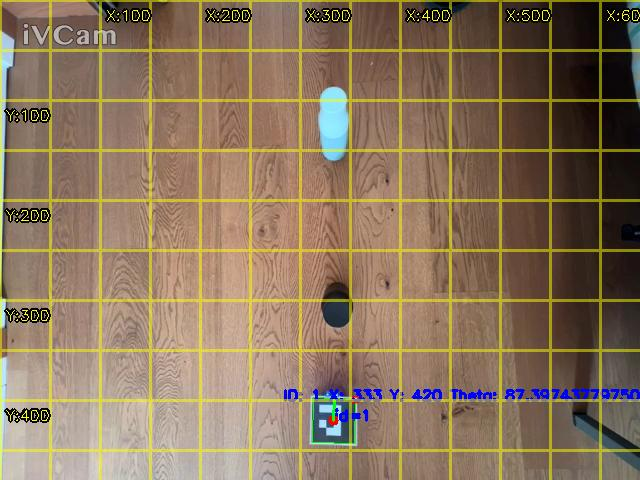
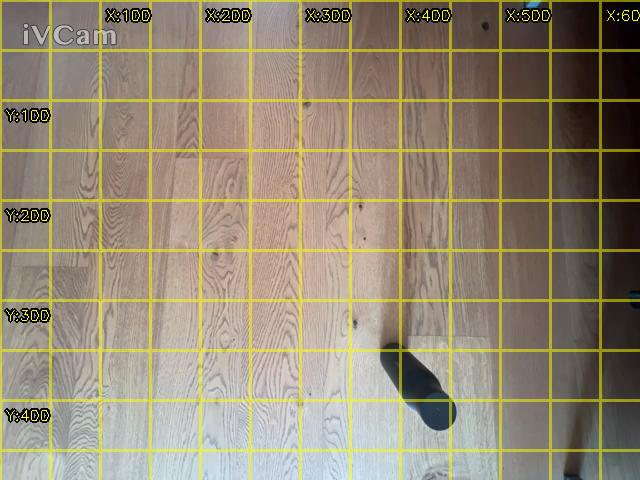
ajustes

diff --git a/servidor/server_gui.py b/servidor/server_gui.py
@@ -497,7 +497,7 @@ class ServerGUI:
         self.hilo_alineacion.start()
         self.escribir_log("Modo Baile por Waypoints (Máquina de estados) INICIADO.")
 
-    def _bucle_baile_waypoints(self, fuente, mapa_tokens, rutas): #ESTA FUNCION NO LA PODEMOS REFACTORIZAR USANDO EL MENSAJE QUE ENVIA EL ROBOT AL SERVIDOR CUANDO LLEGA A UN OBJETO?
+    def _bucle_baile_waypoints(self, fuente, mapa_tokens, rutas): 
         try:
             mapa = {int(t.split(":")[0]): t.split(":")[1] for t in mapa_tokens}
 
@@ -508,11 +508,22 @@ class ServerGUI:
 
             #Todos los robots empiezan en el punto 0 de su ruta
             indices_ruta = {robot_id: 0 for robot_id in rutas.keys()}
+
+            # Limpiar el CSV al arrancar la coreografía ---
+            with open("telemetria_coreografia.csv", "w") as f:
+                f.write("timestamp,marker_id,x,y,theta\n")
+        # -------------------------------------------------------------------
             while not self.detener_alineacion_evento.is_set():
                 ok, frame = cap.read()
                 if not ok: continue
 
                 poses_detectadas, frame_dibujado = detectar_poses_robot(frame, detector)
+                # Guardar coordenadas frame a frame ---
+                ahora = time.time()
+                with open("telemetria_coreografia.csv", "a") as f:
+                    for marker_id, p in poses_detectadas.items():
+                        f.write(f"{ahora},{marker_id},{p['x']:.1f},{p['y']:.1f},{p['theta']:.1f}\n")
+            # -----------------------------------------------------------
                 pose_por_robot = {mapa[m_id]: p for m_id, p in poses_detectadas.items() if m_id in mapa}
 
                 for robot_id, ruta in rutas.items():

diff --git a/servidor/estudio_bailes.py b/servidor/estudio_bailes.py
@@ -40,7 +40,7 @@ class VentanaEstudioBailes:
             frame_ia = tk.Frame(frame_pista, bg="#f0f4f8", bd=1, relief="solid")
             frame_ia.pack(fill="x", padx=10, pady=(10, 0), ipady=5)
 
-            tk.Label(frame_ia, text="✨ Pídele un baile a la IA:", bg="#f0f4f8", font=("Arial", 9, "bold")).pack(side="left", padx=10)   
+            tk.Label(frame_ia, text="✨ Pídele coordenadas de movimiento a la IA:", bg="#f0f4f8", font=("Arial", 9, "bold")).pack(side="left", padx=10)   
             
             entry_ia = tk.Entry(frame_ia, font=("Arial", 10))
             entry_ia.pack(side="left", fill="x", expand=True, padx=5)
@@ -65,7 +65,7 @@ class VentanaEstudioBailes:
         self.entry_delay.insert(0, "1500") # Un segundo y medio para que dé tiempo a calcular todo
 
             # Botón Maestro
-        btn_ejecutar = tk.Button(ctrl_frame, text="▶ Ejecutar Coreografía Maestra", bg="#10b981", fg="white", font=("Arial", 11, "bold"), command=self.ejecutar_todo)
+        btn_ejecutar = tk.Button(ctrl_frame, text="▶ Ejecutar", bg="#10b981", fg="white", font=("Arial", 11, "bold"), command=self.ejecutar_todo)
         btn_ejecutar.pack(side = "right")
 
 

diff --git a/robot_cliente_wifi/RobotController.h b/robot_cliente_wifi/RobotController.h
@@ -8,7 +8,7 @@ private:
     int velocidad;
 
 public:
-    RobotController(int vel = 30);
+    RobotController(int vel = 50);
 
     void begin();
 